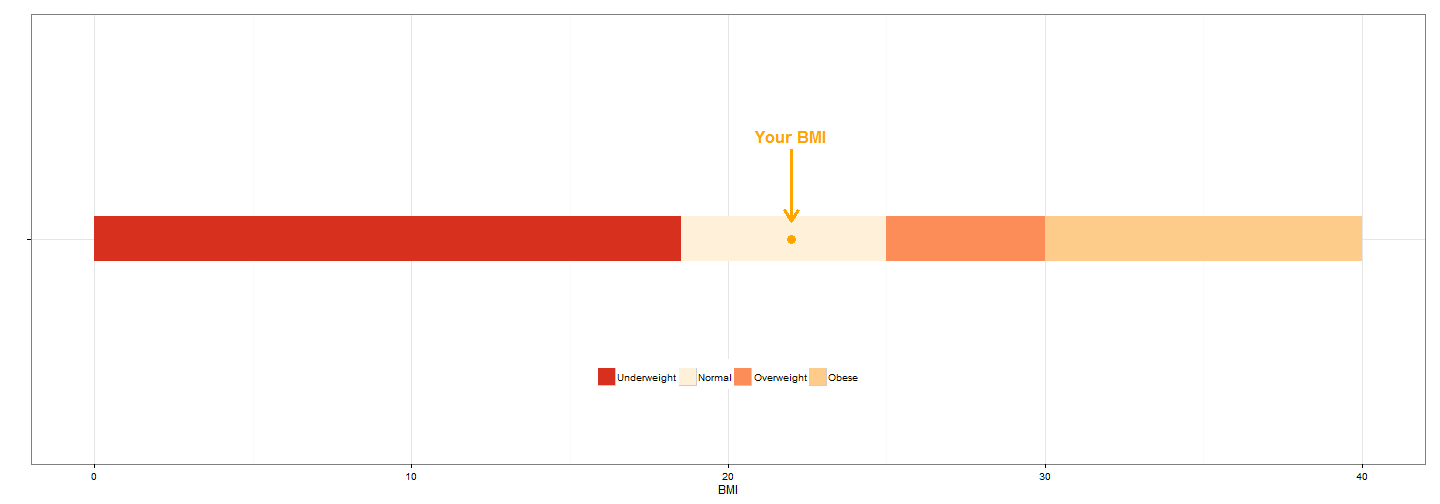
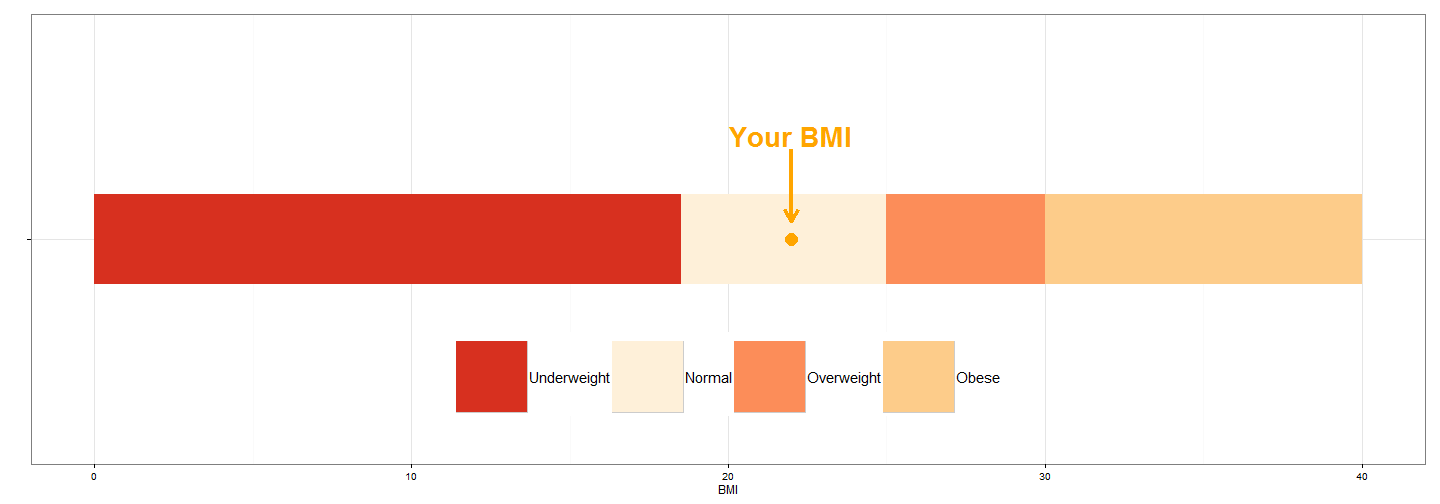
fix image scale

diff --git a/BMI.html b/BMI.html
@@ -817,8 +817,9 @@ hljs.initHighlightingOnLoad();
 <h3>Calculation</h3>
 <div class="slideContent" >
 <ul>
-<li><p>The formula to calculate the BMI is:<br/>
-\( {weight}/{height}^{2} \)</p></li>
+<li><p>The formula to calculate the BMI: </p>
+
+<p>\( {weight}/{height}^{2} \)</p></li>
 <li><p>The results are given in kg/m2</p></li>
 <li><p>This table show how to basic interpret the results of BMI:</p></li>
 </ul>
@@ -882,7 +883,7 @@ hljs.initHighlightingOnLoad();
 <li>The  code for the graph for a BMI of 22.</li>
 </ul>
 
[2 lines of base64/hex data omitted]
 
 <p><strong>Hope you guys enjoy it!</strong> </p>
 

diff --git a/BMI.md b/BMI.md
@@ -18,7 +18,8 @@ BMI
 Calculation
 ========================================================
 
-- The formula to calculate the BMI is:  
+- The formula to calculate the BMI: 
+
  ${weight}/{height}^{2}$
  
 - The results are given in kg/m2
